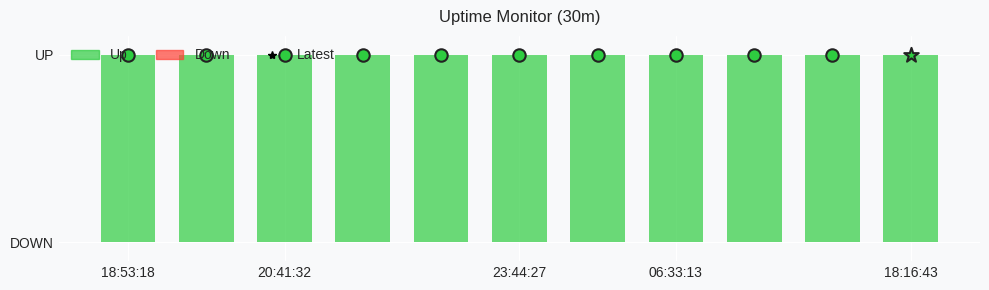
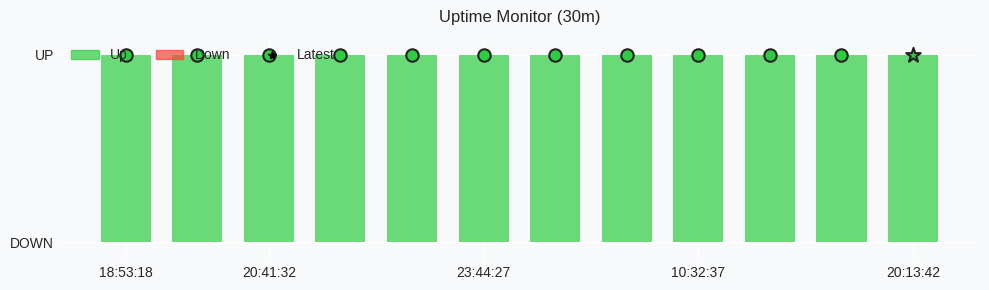
🤖 Cập nhật uptime [skip ci]
- Thời gian: 2026-05-11 20:14:20 UTC

- Status: success

- Badge & Chart đã cập nhật

diff --git a/README.md b/README.md
@@ -10,8 +10,8 @@
 
 | Metric | Value |
 |:--|:--|
-| ⏰ Last Update | 2026-05-11 18:18:38 UTC |
-| 🔄 Total Pings | 11 |
+| ⏰ Last Update | 2026-05-11 20:14:20 UTC |
+| 🔄 Total Pings | 12 |
 | ✅ Uptime (30 lần gần nhất) | 100.00% |
 | ⌛ Ping Interval | 30 phút |
 | 📡 Last Check | |
@@ -36,8 +36,6 @@
 <!--ping-log-start-->
 | Thời gian | Trạng thái | Chi tiết |
 |---|---|---|
-Timeout/Connection Error (Thử lại 2/5), đợi 8s...
-200 OK (Khởi động thành công sau 3 lần thử, phản hồi: 72872ms) |
 | 2026-05-10 18:53:18 | ✅ Success | Timeout/Connection Error (Thử lại 1/5), đợi 5s...
 200 OK (Khởi động thành công sau 2 lần thử, phản hồi: 35811ms) |
 | 2026-05-10 19:55:39 | ✅ Success | Timeout/Connection Error (Thử lại 1/5), đợi 5s...
@@ -66,6 +64,8 @@ Timeout/Connection Error (Thử lại 2/5), đợi 8s...
 Timeout/Connection Error (Thử lại 2/5), đợi 8s...
 Timeout/Connection Error (Thử lại 3/5), đợi 11s...
 200 OK (Khởi động thành công sau 4 lần thử, phản hồi: 114241ms) |
+| 2026-05-11 20:13:42 | ✅ Success | Timeout/Connection Error (Thử lại 1/5), đợi 5s...
+200 OK (Khởi động thành công sau 2 lần thử, phản hồi: 35391ms) |
 <!--ping-log-end-->
 
 </details>

diff --git a/ping_log.md b/ping_log.md
@@ -1,7 +1,5 @@
 | Thời gian | Trạng thái | Chi tiết |
 |---|---|---|
-Timeout/Connection Error (Thử lại 2/5), đợi 8s...
-200 OK (Khởi động thành công sau 3 lần thử, phản hồi: 72872ms) |
 | 2026-05-10 18:53:18 | ✅ Success | Timeout/Connection Error (Thử lại 1/5), đợi 5s...
 200 OK (Khởi động thành công sau 2 lần thử, phản hồi: 35811ms) |
 | 2026-05-10 19:55:39 | ✅ Success | Timeout/Connection Error (Thử lại 1/5), đợi 5s...
@@ -30,3 +28,5 @@ Timeout/Connection Error (Thử lại 2/5), đợi 8s...
 Timeout/Connection Error (Thử lại 2/5), đợi 8s...
 Timeout/Connection Error (Thử lại 3/5), đợi 11s...
 200 OK (Khởi động thành công sau 4 lần thử, phản hồi: 114241ms) |
+| 2026-05-11 20:13:42 | ✅ Success | Timeout/Connection Error (Thử lại 1/5), đợi 5s...
+200 OK (Khởi động thành công sau 2 lần thử, phản hồi: 35391ms) |